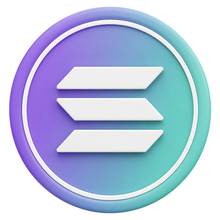
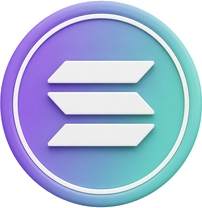
deploy: sync 2026-11-25-0457

diff --git a/src/components/ui.tsx b/src/components/ui.tsx
@@ -9,10 +9,10 @@ const MARK_DARK = `${ASSET_BASE}assets/3d/wallet-hero-dark.png`
 /**
  * The Mono mark: the same sculptural matte emblem the app icon is cut from.
  *
- * Two plates are shipped — the emblem photographed on white and on black — and
- * CSS picks the one that matches the theme. `multiply` on light and `screen`
- * on dark make the plate itself disappear, so the mark sits on any surface
- * without a visible square around it.
+ * Two transparent props are shipped — the obsidian emblem for light surfaces
+ * and the alabaster one for dark — because a blend mode is the wrong tool here:
+ * `.press` (will-change) creates a stacking context, so anything blended inside
+ * a button would blend against transparency and show its plate.
  */
 export function MonoMark({
   size = 32,
@@ -36,7 +36,7 @@ export function MonoMark({
         height={size}
         draggable={false}
         decoding="async"
-        className="mono-mark-light absolute inset-0 h-full w-full object-contain"
+        className="absolute inset-0 h-full w-full object-contain dark:hidden"
       />
       <img
         src={MARK_DARK}
@@ -45,7 +45,7 @@ export function MonoMark({
         height={size}
         draggable={false}
         decoding="async"
-        className="mono-mark-dark absolute inset-0 hidden h-full w-full object-contain dark:block"
+        className="absolute inset-0 hidden h-full w-full object-contain dark:block"
       />
     </span>
   )
@@ -94,7 +94,7 @@ export function SolCoin3D({ size = 40 }: { size?: number }) {
       draggable={false}
       decoding="async"
       onError={() => setFailed(true)}
-      className="h-full w-full select-none object-contain mix-blend-multiply"
+      className="h-full w-full select-none object-contain"
       style={{ width: size, height: size }}
     />
   )

diff --git a/src/Shell.tsx b/src/Shell.tsx
@@ -54,7 +54,7 @@ function TabFallback() {
 }
 
 export default function Shell() {
-  const { meta, keypair, lock, updateMeta, resetWallet } = useWallet()
+  const { meta, keypair, activeAccount, lock, updateMeta, resetWallet } = useWallet()
   const [tab, setTab] = useState<Tab>('wallet')
   const [sheet, setSheet] = useState<SheetState>(null)
   // Which token the swap screen should start from when opened from detail.
@@ -116,7 +116,7 @@ export default function Shell() {
           {tab === 'wallet' && (
             <Home
               address={meta.address}
-              accountName={meta.name}
+              accountName={activeAccount?.name ?? meta.name}
               network={network}
               portfolio={portfolio.data}
               loading={portfolio.loading}

diff --git a/src/index.css b/src/index.css
@@ -316,15 +316,6 @@ textarea {
   animation: shimmer 1.35s infinite linear;
 }
 
-/* The Mono mark is matte art on a photo plate: multiply makes the white plate
- * vanish on light surfaces, screen makes the black plate vanish on dark ones. */
-.mono-mark-light {
-  mix-blend-mode: multiply;
-}
-.mono-mark-dark {
-  mix-blend-mode: screen;
-}
-
 /* hide number input spinners */
 input[type='number']::-webkit-outer-spin-button,
 input[type='number']::-webkit-inner-spin-button {

diff --git a/src/sheets/TokenDetailSheet.tsx b/src/sheets/TokenDetailSheet.tsx
@@ -181,7 +181,7 @@ export default function TokenDetailSheet({
   const riskyExtensions = security?.extensions ?? []
 
   return (
-    <Sheet open={open} onClose={onClose} tall>
+    <Sheet open={open} onClose={onClose}>
       <div className="flex items-start justify-between pb-1">
         <div className="flex items-center gap-3">
           <TokenIcon symbol={asset.isSol ? 'SOL' : asset.symbol} icon={asset.icon} size={48} />
